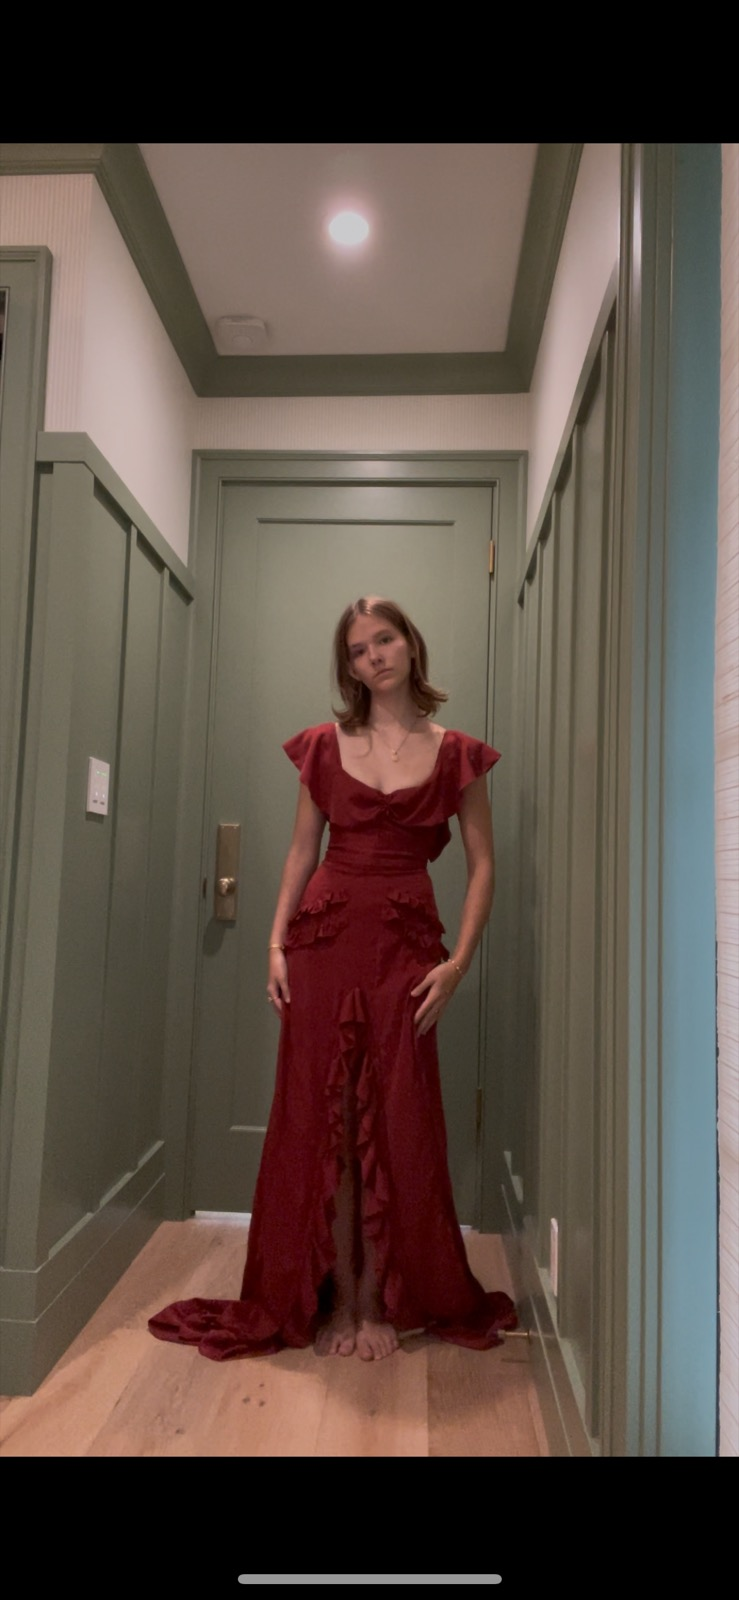
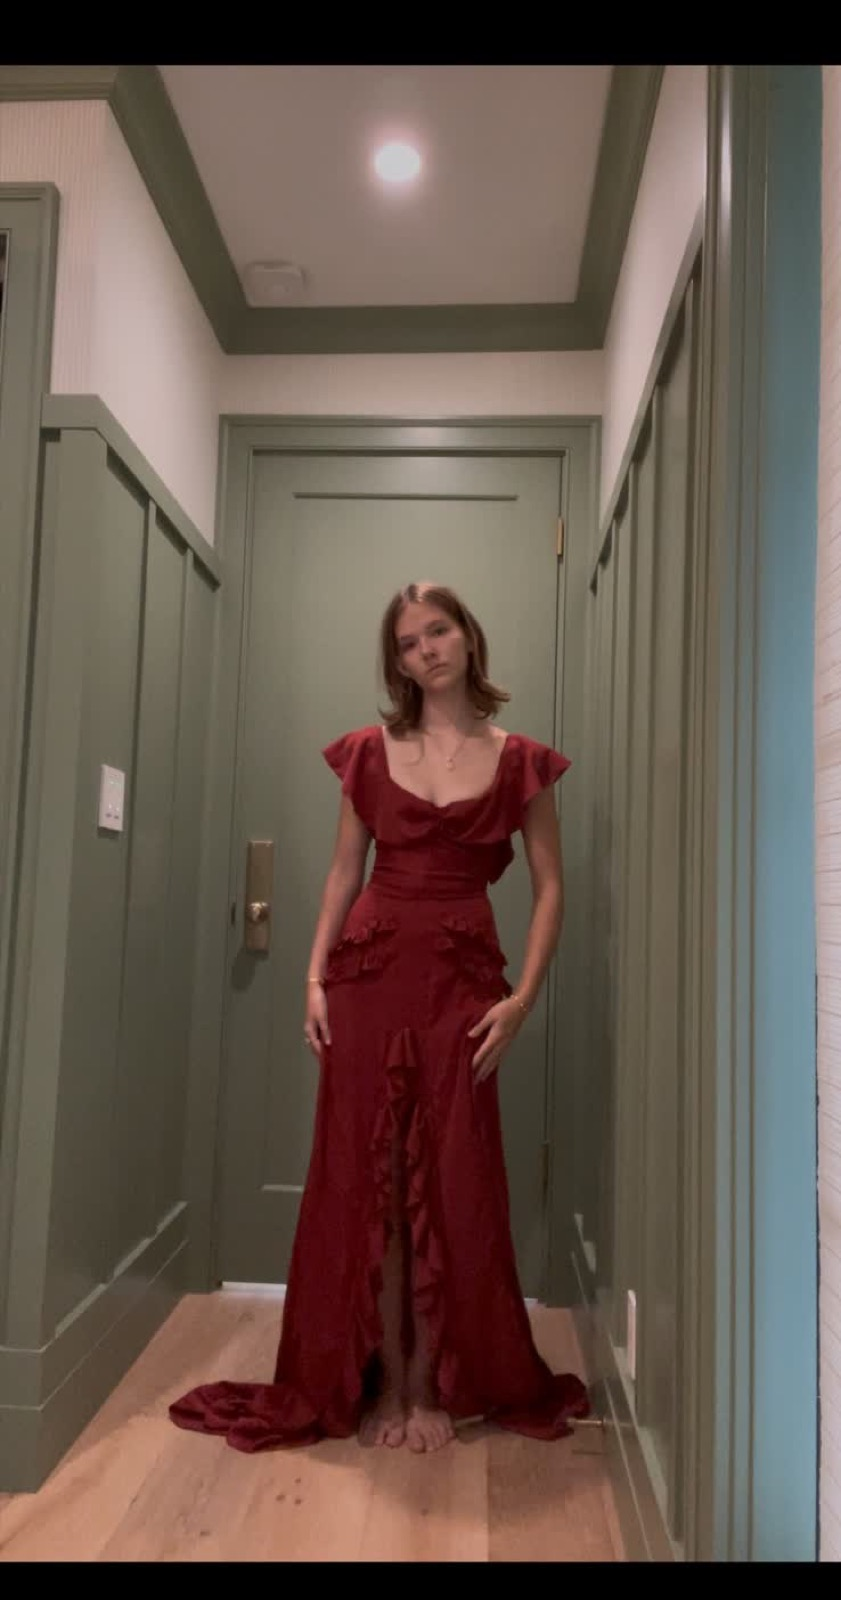
Crop black bars off crimson photo; use literal 4x for award stat

diff --git a/index.html b/index.html
@@ -119,7 +119,7 @@
       <div class="stat"><b>12</b><span>Years Sewing</span></div>
       <div class="stat"><b>100%</b><span>Self-Taught</span></div>
       <div class="stat"><b>4.2</b><span>Weighted GPA</span></div>
-      <div class="stat"><b>4&times;</b><span>Award-Winning</span></div>
+      <div class="stat"><b>4x</b><span>Award-Winning</span></div>
     </div>
   </div>
 </section>
